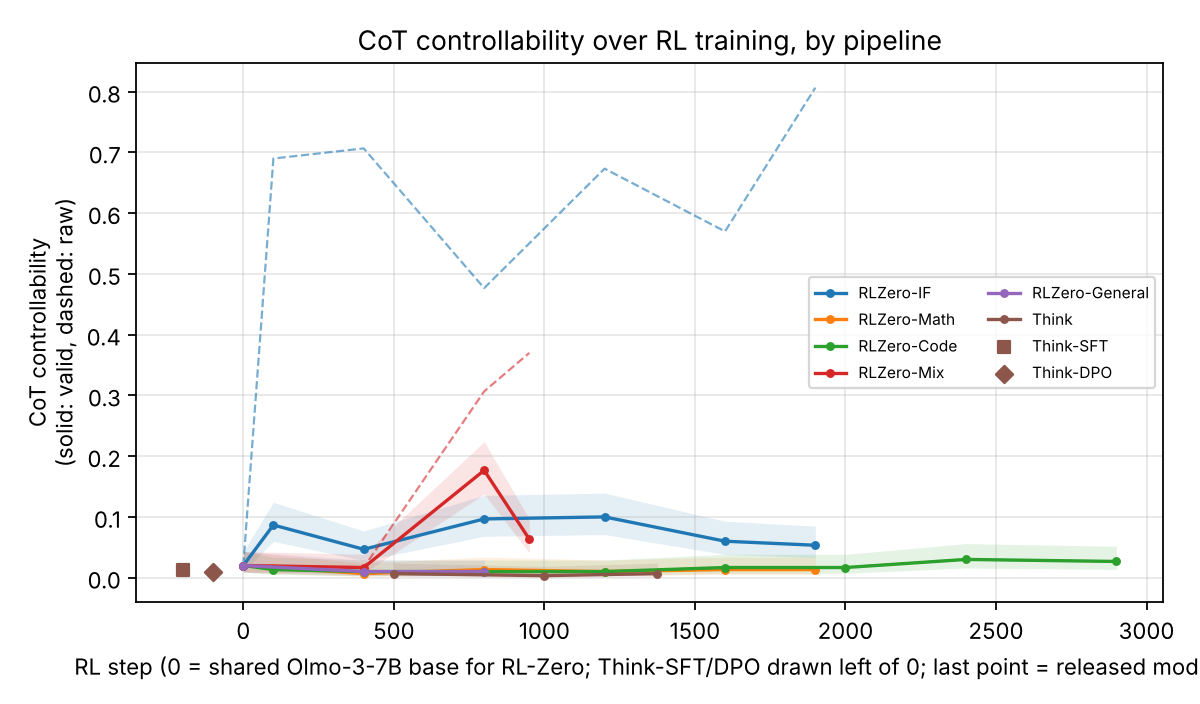
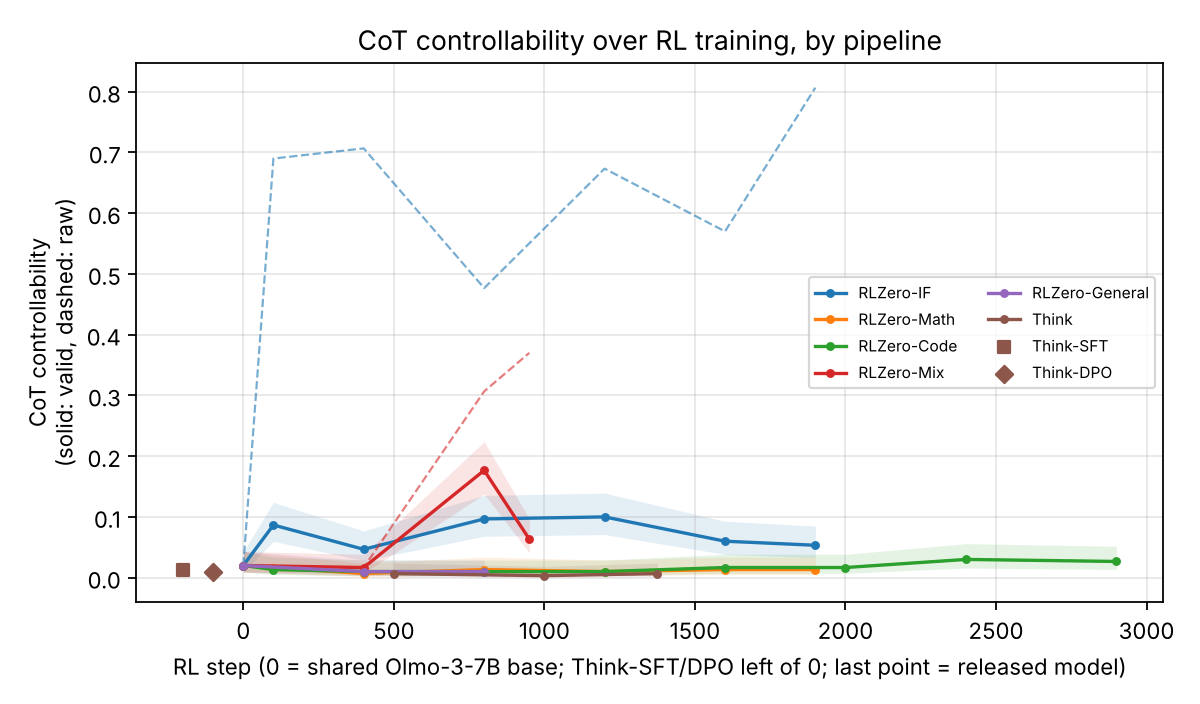
figures: shorter axis label
Claude-Session: https://claude.ai/code/session_01Tayx38fMPP2pjBkCUktg4h

Changed region(s): [[0.0617, 0.9375, 1.0, 0.9688]]

diff --git a/experiments/olmo_cot_control/src/analyze.py b/experiments/olmo_cot_control/src/analyze.py
@@ -187,7 +187,7 @@ def main():
     for p, m in [("Think-SFT", "s"), ("Think-DPO", "D")]:
         q = summ[summ.pipeline == p]
         if len(q): ax.scatter(q.plot_step, q.cot_controllability_valid, marker=m, color=colors[5], s=30, label=p, zorder=5)
-    ax.set_xlabel("RL step (0 = shared Olmo-3-7B base for RL-Zero; Think-SFT/DPO drawn left of 0; last point = released model)")
+    ax.set_xlabel("RL step (0 = shared Olmo-3-7B base; Think-SFT/DPO left of 0; last point = released model)")
     ax.set_ylabel("CoT controllability\n(solid: valid, dashed: raw)")
     ax.set_title("CoT controllability over RL training, by pipeline"); ax.legend(fontsize=7, ncol=2); ax.grid(alpha=0.3)
     fig.tight_layout(); fig.savefig(fig_dir / "controllability_vs_step.png", dpi=160); plt.close(fig)
